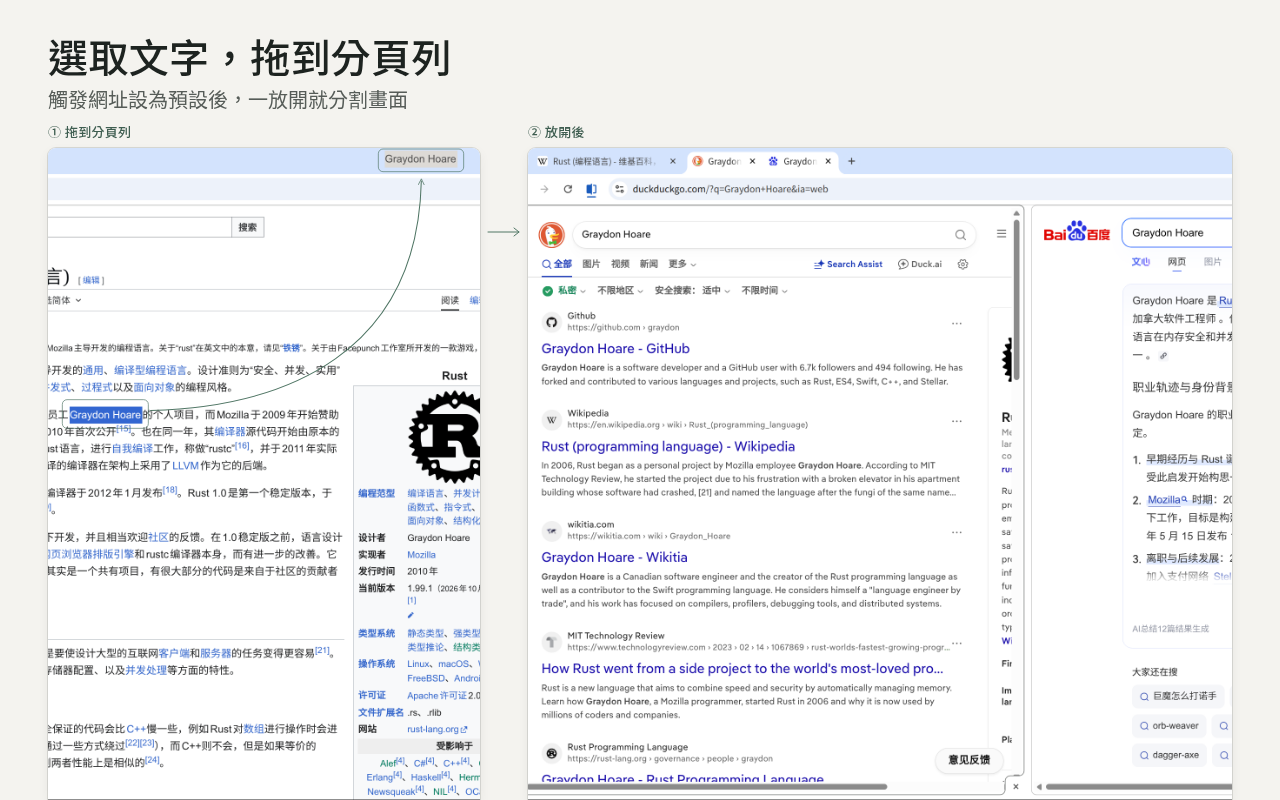
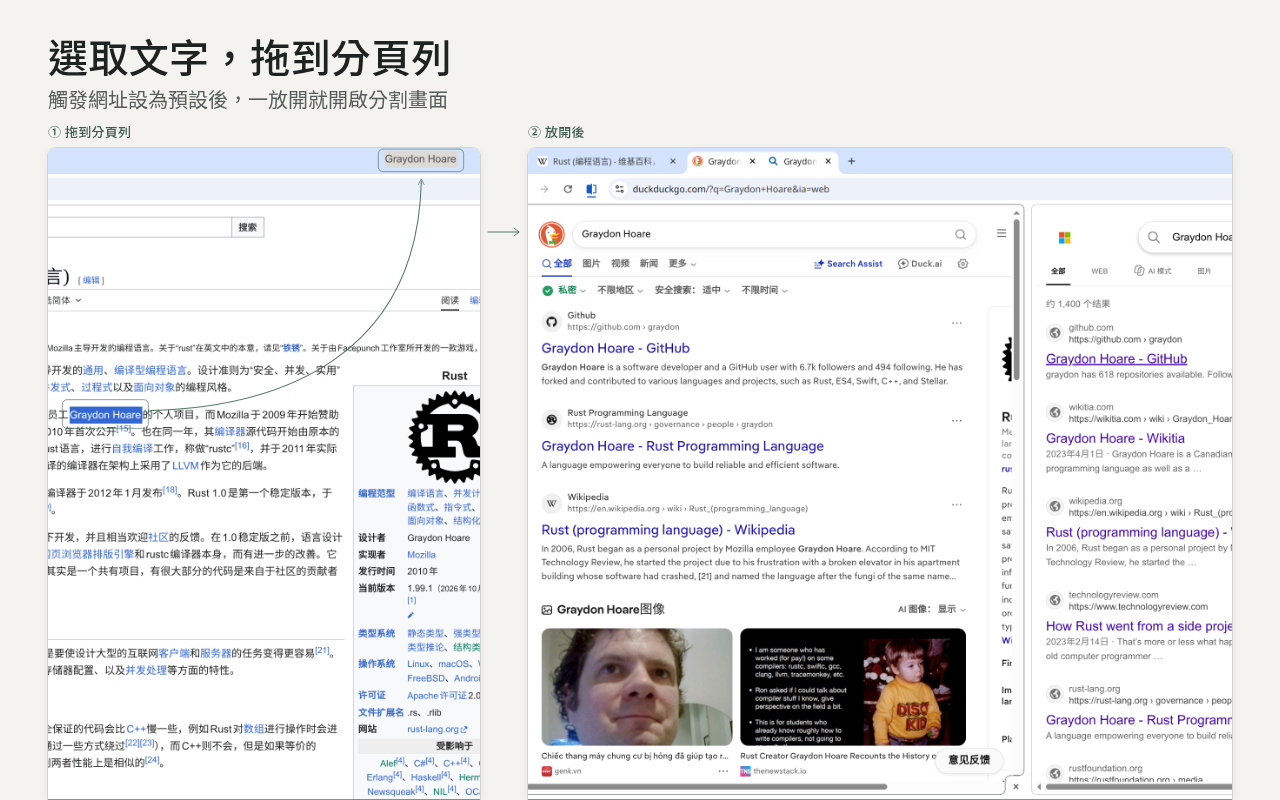
docs(assets): reshoot the Chinese screenshots without Baidu
The omnibox and drag result screenshots used by the zh_CN, zh_TW and
es store and README images showed a DuckDuckGo | Baidu split. Reshoot
them as DuckDuckGo | Bing with a Chinese Chrome UI in a private Xvfb
and a throw-away profile, drop the unused Baidu weather screenshot,
point the templates and flag notes at bing, and re-render the three
locales. English outputs are unchanged.

Claude-Session: https://claude.ai/code/session_01QAFczmx2FRoPgu46A1z6D9

diff --git a/assets/templates/store-2-omnibox.html b/assets/templates/store-2-omnibox.html
@@ -6,7 +6,7 @@
 <script src="fonts.js"></script>
 <style>
   /* 两块同缩放（0.435）、同上缘，高 652 正好是原图整窗高 1500：窗口下沿就落在画布底边，不切到任何一行字。
-     左 432 宽 = 输入时的地址栏下拉；右 704 宽 = 回车后的分屏（DuckDuckGo 整个窗格 + 百度的 logo 和搜索框）。中间 48 的间距里一条 1px 箭头 */
+     左 432 宽 = 输入时的地址栏下拉；右 704 宽 = 回车后的分屏（DuckDuckGo 整个窗格 + Bing 的 logo 和搜索框）。中间 48 的间距里一条 1px 箭头 */
   .a { left: 48px; width: 432px; } .b { left: 528px; width: 704px; }
   .cap.ca { left: 48px; } .cap.cb { left: 528px; }
   .link { left: 480px; top: 226px; }
@@ -17,11 +17,11 @@
     <p data-t="shot2.sub"></p>
   </header>
   <div class="cap ca" data-t="shot2.cap1"></div><div class="cap cb" data-t="shot2.cap2"></div>
-  <!-- 真实截图：在地址栏输入 rust ownership，下拉建议“rust ownership - DuckDuckGo ｜ 百度 搜索”（细框；en 是“DuckDuckGo | Bing Search”，位置相同） -->
+  <!-- 真实截图：在地址栏输入 rust ownership，下拉建议“rust ownership - DuckDuckGo ｜ Bing 搜索”（细框；en 是“DuckDuckGo | Bing Search”，位置相同） -->
   <div class="crop bleed a" data-crop="0,0,994,1500" data-h="fill"><img src="../raw/omnibox-suggest.png" data-iw="2400" alt="">
     <i class="mark" data-box="246,132,504,56"></i></div>
   <svg class="link" viewBox="0 0 48 12"><path d="M8 6H39M34 2L39 6L34 10" stroke="#507665" stroke-width="1" fill="none" stroke-linecap="round" stroke-linejoin="round"/></svg>
-  <!-- 真实截图：回车后的分屏，左 DuckDuckGo、右百度（en 是 Bing），查询词 rust ownership -->
+  <!-- 真实截图：回车后的分屏，左 DuckDuckGo、右 Bing，查询词 rust ownership -->
   <div class="crop bleed b" data-crop="50,0,1620,1500" data-h="fill"><img src="../raw/omnibox-result-split.png" data-iw="2400" alt=""></div>
   <script src="crop.js"></script>
 </body></html>

diff --git a/assets/templates/readme-how-it-works.html b/assets/templates/readme-how-it-works.html
@@ -49,7 +49,7 @@
     <div class="fig url">
       <code>https://duckduckgo.com<br>/?q=rust+ownership</code>
       <span class="k" data-t="how.urlNote" data-lines="1"></span>
-      <code><b data-text-en="&amp;_ss=ddg,bing">&amp;_ss=ddg,baidu</b></code>
+      <code><b>&amp;_ss=ddg,bing</b></code>
       <span class="k s" data-t="how.flagNote" data-lines="1"></span>
     </div>
     <p class="note" data-t="how.note2"></p>
@@ -58,8 +58,8 @@
   <div class="col c3">
     <h2><b>3</b><span data-t="how.step3"></span></h2>
     <div class="fig">
-      <!-- 真实截图：回车后的分屏，左 DuckDuckGo、右百度（en 是 Bing，英文截图的空白在 1094–1110，切在 1102）。只取两个引擎的页头：DuckDuckGo 窗格整宽 + 右侧 logo 和搜索框开头 -->
-      <div class="crop" data-crop="0,0,1640,1127" data-crop-en="0,0,1640,1102"><img src="../raw/omnibox-result-split.png" data-iw="2400" alt=""></div>
+      <!-- 真实截图：回车后的分屏，左 DuckDuckGo、右 Bing（中文截图的空白在 1100–1120，英文截图在 1094–1110，都切在 1102）。只取两个引擎的页头：DuckDuckGo 窗格整宽 + 右侧 logo 和搜索框开头 -->
+      <div class="crop" data-crop="0,0,1640,1102"><img src="../raw/omnibox-result-split.png" data-iw="2400" alt=""></div>
     </div>
     <p class="note" data-t="how.note3"></p>
   </div>

diff --git a/assets/templates/store-3-drag.html b/assets/templates/store-3-drag.html
@@ -31,7 +31,7 @@
     </svg>
   </div>
   <svg class="link" viewBox="0 0 48 12"><path d="M8 6H39M34 2L39 6L34 10" stroke="#507665" stroke-width="1" fill="none" stroke-linecap="round" stroke-linejoin="round"/></svg>
-  <!-- 真实截图：松手后的分屏，左 DuckDuckGo、右百度（en 是 Bing），查询词 Graydon Hoare -->
+  <!-- 真实截图：松手后的分屏，左 DuckDuckGo、右 Bing，查询词 Graydon Hoare -->
   <div class="crop bleed b" data-crop="50,0,1620,1500" data-h="fill"><img src="../raw/drag-result-split.png" data-iw="2400" alt=""></div>
   <script src="crop.js"></script>
 </body></html>

diff --git a/assets/raw/captions.md b/assets/raw/captions.md
@@ -9,13 +9,13 @@
 - 扩展从本仓库 `src/` 用 CDP `Extensions.loadUnpacked` 加载，版本 0.1.0。
 - 用 `import -window root` 截取整个屏幕，包括标签栏和分屏。Xvfb 截图里没有鼠标指针。
 - 除 `options-fullpage.png` 外，其余都是 2400×1500 的整窗截图。
+- `drag-result-split.png`、`omnibox-suggest.png`、`omnibox-result-split.png` 三张是 2026-10-28 用 Chrome 156 重拍的，环境见下文“中文结果截图的重拍”。
 
 ## 设置页的状态
 
 - 默认组合：DuckDuckGo ｜ Bing。
 - 引擎排序：DuckDuckGo、Bing、Google、Kagi、Perplexity。
 - 授权：只授权了 `https://duckduckgo.com/*` 和 `https://www.bing.com/*`，是在设置页点“点此授权”后，在 Chrome 授权框里点“允许”授予的。
-- 拍完设置页之后，又添加了一个自定义引擎“百度”（id `baidu`，`https://www.baidu.com/s?wd=%s`），百度没有授权。`options-*.png` 是添加百度之前拍的，所以里面没有百度。
 
 ## 截图清单
 
@@ -26,11 +26,10 @@
 | `options-fullpage.png` | 2378×2876 | 设置页整页，用 CDP `Page.captureScreenshot` 拍，只有页面内容、不含浏览器界面。状态和上面两张相同。 |
 | `permission-prompt.png` | 2400×1500 | 设置页点“点此授权 DuckDuckGo（必需）和 Bing（建议）”后弹出的 Chrome 授权框，内容是“读取和更改您在 duckduckgo.com 和 www.bing.com 上的数据”。这时默认组合已经改成 DuckDuckGo ｜ Bing，但还没授权，所以页面上有黄色提示。 |
 | `split-ddg-bing-rust.png` | 2400×1500 | 原生分屏：左边是 DuckDuckGo，右边是 Bing，查询词“rust programming”。新开一个标签访问触发网址 `https://duckduckgo.com/?q=rust+programming&_ss=ddg,bing`，由扩展的 DNR 规则和 go.html 建成分屏，和真实使用的路径相同。页面缩放 100%。两个网页在约 800 CSS 像素宽的窗格里都有横向滚动条，这是两个网站本身的问题。 |
-| `split-ddg-baidu-weather.png` | 2400×1500 | 原生分屏：左边是 DuckDuckGo，右边是百度（自定义引擎），查询词“北京 天气”。在已有的扩展分屏左侧访问触发网址 `…&_ss=ddg,baidu`，扩展在原分屏里直接更新两侧。 |
 | `drag-to-tabstrip.png` | 2400×1500 | 拖拽过程中：在中文维基百科“Rust (编程语言)”页面选中正文里的“Graydon Hoare”，用 xdotool 真实按下鼠标，把选中的文字拖到标签栏空白处，在还没松手时截图。可以看到标签栏上方的拖拽影像“Graydon Hoare”；第一个标签右下方还有一个黑底白色“↑”方块，应该是 Chrome 的标签插入位置箭头，Xvfb 没有合成器，它的透明背景变成了黑色（合成时已盖掉，见“修补”）。拍之前用页面自带的关闭按钮关掉了维基百科的活动横幅。 |
-| `drag-result-split.png` | 2400×1500 | 上一张松手之后的结果：Chrome 用默认搜索引擎打开新标签，扩展把它变成分屏，左边 DuckDuckGo、右边百度，查询词“Graydon Hoare”。 |
-| `omnibox-suggest.png` | 2400×1500 | 在分屏左侧的地址栏输入“rust ownership”，下拉建议显示“rust ownership - DuckDuckGo ｜ 百度 搜索”。这是 Chrome 用默认搜索引擎（触发网址做成的网站搜索）给出的建议。 |
-| `omnibox-result-split.png` | 2400×1500 | 上一张按回车后的结果：扩展在原分屏里更新两侧，左边 DuckDuckGo、右边百度，查询词“rust ownership”。 |
+| `drag-result-split.png` | 2400×1500 | 拖拽松手之后的结果（2026-10-28 重拍，拖拽过程同上一张）：Chrome 用默认搜索引擎打开新标签，扩展把它变成分屏，左边 DuckDuckGo、右边 Bing，查询词“Graydon Hoare”。标签栏里是维基百科和分屏的两个标签。 |
+| `omnibox-suggest.png` | 2400×1500 | 在上一张分屏左侧的地址栏输入“rust ownership”，下拉建议显示“rust ownership - DuckDuckGo ｜ Bing 搜索”。这是 Chrome 用默认搜索引擎（触发网址做成的网站搜索）给出的建议（2026-10-28 重拍）。 |
+| `omnibox-result-split.png` | 2400×1500 | 上一张按回车后的结果：扩展在原分屏里更新两侧，左边 DuckDuckGo、右边 Bing，查询词“rust ownership”（2026-10-28 重拍）。 |
 
 ## 修补
 
@@ -51,13 +50,28 @@ convert drag-to-tabstrip.png \
 
 ## 拍摄时的默认搜索引擎
 
-拖拽和地址栏两组截图需要把触发网址设成 Chrome 默认搜索引擎。做法是用 e2e 脚本的 `settings-se.mjs` 操作 `chrome://settings/searchEngines`，添加网站搜索“DuckDuckGo ｜ 百度”，网址 `https://duckduckgo.com/?q=%s&_ss=ddg,baidu`，快捷字词是脚本专用的 `sse2e`，再设为默认。这和设置页引导用户手动做的步骤效果相同，只是快捷字词不一样；快捷字词不出现在任何截图里。
+拖拽和地址栏两组截图需要把触发网址设成 Chrome 默认搜索引擎。做法是用 e2e 脚本的 `settings-se.mjs` 操作 `chrome://settings/searchEngines`，添加网站搜索“DuckDuckGo ｜ Bing”，网址 `https://duckduckgo.com/?q=%s&_ss=ddg,bing`，快捷字词是脚本专用的 `sse2e`，再设为默认（2026-10-24 的 `drag-to-tabstrip.png` 拍摄时这条网站搜索的右侧是当时的自定义引擎，拖拽中的画面里看不到它）。这和设置页引导用户手动做的步骤效果相同，只是快捷字词不一样；快捷字词不出现在任何截图里。
 
 ## 已知限制（以后补拍时注意）
 
-- 这台机器上 Bing 对中文查询会弹出人机验证（“最后一步 / 请验证您是真人”），所以中文场景的右侧换成了百度。补拍时，中文查询不要用 Bing 作右侧。
-- 截图里引擎页面的内容（DuckDuckGo 的 Search Assist、百度的 AI 摘要、“大家还在搜”等）都是网站当时实际返回的结果，没有改过。
+- 2026-10-24 这台机器上 Bing 对中文查询弹过人机验证（“最后一步 / 请验证您是真人”）。2026-10-28 重拍用的是英文查询词“Graydon Hoare”“rust ownership”，Bing 没有弹。补拍时尽量用英文查询词；Bing 弹验证时改用 `en/` 的同名截图，并在这里写明。
+- 截图里引擎页面的内容（DuckDuckGo 的 Search Assist、Bing 的结果和结果数、第一条结果标题的下划线等）都是网站当时实际返回的结果，没有改过。
 - 横向滚动条是 Linux 版 Chrome 的普通滚动条。Windows 上的效果以实拍为准。
+
+## 中文结果截图的重拍（2026-10-28，v0.7 去掉百度）
+
+v0.7 起百度不再出现在任何面向用户的地方（设计见 `docs/superpowers/specs/2026-10-28-v0.7-design.md` A2）。画面里有百度的三张 `drag-result-split.png`、`omnibox-suggest.png`、`omnibox-result-split.png` 换成 DuckDuckGo ｜ Bing 重拍，原来没被任何模板用到的 `split-ddg-baidu-weather.png` 删掉。`drag-to-tabstrip.png` 画面里没有百度，没有重拍。
+
+- Google Chrome 156.0.8078.47（Linux），界面语言中文：启动参数加 `--lang=zh-CN`、环境变量 `LANGUAGE=zh_CN:zh`，另加 `--disable-features=LcdTextAntialiasing,Translate`（包装脚本自带的 `LcdTextAntialiasing` 一起写上，同名开关只认最后一个），并往临时配置的 `Default/Preferences` 写 `translate.enabled: false`。私有 Xvfb（:90，2400×1500），`/opt/google/chrome/google-chrome` 固定缩放 1.5，窗口经 CDP 设成 1600×1000 CSS 像素铺满屏幕，`import -window root` 截整屏，没有鼠标指针。
+- 全新的一次性配置（`--disable-sync`，没有登录 Chrome 账号和任何网站），拍完删除；没有用 e2e 测试配置。启动、字体配置、Xvfb 都经 `scripts/e2e` 的 `browser.mjs`（`launch()`）、`display.mjs`。Accept-Language 是全新配置按 `--lang` 给的中文，DuckDuckGo 和 Bing（`www.bing.com`）都返回中文界面，没有加 `kl`、`setlang` 之类的参数。
+- 扩展从本仓库 `src/` 用 CDP `Extensions.loadUnpacked` 加载，版本 0.6.1（main 上 ecc7961 之后的工作区）。`storage.sync` 写成默认组合 DuckDuckGo ｜ Bing、引擎排序 DuckDuckGo、Bing、Google、Kagi、Perplexity；只授权 `https://duckduckgo.com/*` 和 `https://www.bing.com/*`，在设置页发起申请，Chrome 授权框里用 xdotool 按 Tab、回车点“允许”。
+- 网站搜索：`settings-se.mjs` 添加“DuckDuckGo ｜ Bing”（设置页建议的名称）、网址 `https://duckduckgo.com/?q=%s&_ss=ddg,bing`、快捷字词 `sse2e`，设为默认；之后关掉设置页和 `chrome://settings` 窗口，标签栏只剩一个标签。
+- 拍摄过程：这个标签打开中文维基百科“Rust (编程语言)”，用页面自带的关闭按钮关掉活动横幅，在正文“…员工Graydon Hoare的个人项目…”里选中“Graydon Hoare”（不是链接），用 xdotool 真实按下鼠标拖到标签栏空白处（落点 1509,30，与 `drag-to-tabstrip.png` 相同）松手，等两侧结果都出来后截 `drag-result-split.png`；指针挪到标签栏右侧空白处（1900,30），按 Ctrl+L 在分屏左侧的地址栏输入“rust ownership”、按 Delete 去掉行内补全，截 `omnibox-suggest.png`；回车后扩展在原分屏里更新两侧，等两侧结果都出来后截 `omnibox-result-split.png`。
+- Bing 两次都直接出结果，没有人机验证，所以没用 `en/` 的截图顶替。
+- 与 `drag-to-tabstrip.png` 不同之处：那张是 2026-10-24 用 Chrome 155 拍的（拖拽中的画面），这三张是 Chrome 156，浏览器界面的细节（标签图标、配色）略有差别，只用在不上传的 zh_CN、zh_TW、es 套图里。
+- 模板随之改的：`readme-how-it-works.html` 第 3 栏的裁切高度原来是 1127（百度截图的空白行），新截图在 x 0–1640 范围内的空白行是 1100–1120，改成与英文截图共用的 1102；`store-2-omnibox.html` 的下拉框细框（246,132,504,56）和两张模板的结果分屏裁切不用改。`node scripts/store/render-assets.mjs --locale zh_CN`、`zh_TW`、`es` 重新渲染，渲染器没有报溢出或超行；`--locale en` 重新渲染后英文图逐字节不变。
+
+三张都逐一看过：没有百度，右侧是 Bing；地址栏下拉建议是“rust ownership - DuckDuckGo ｜ Bing 搜索”；没有账号头像（右上角是未登录的默认图标）、令牌、IP 和其他浏览历史。
 
 ## 英文截图（en/）
 
@@ -68,7 +82,7 @@ convert drag-to-tabstrip.png \
 - Google Chrome 155.0.8059.84（Linux），界面语言英文：启动参数加 `--lang=en-US`、环境变量 `LANGUAGE=en_US:en`。独立 Xvfb 屏幕 2400×1500、缩放 1.5，窗口 1600×1000 CSS 像素，`import -window root` 截整屏，没有鼠标指针。
 - 用 e2e 的隔离测试配置 `~/.cache/split-search-e2e/profile`（`--disable-sync`，不登录 Chrome 账号），全程经 `scripts/e2e` 的模块：`display.mjs` 起私有 Xvfb，`browser.mjs` 启动，`ext-source.mjs` 改装本检出（feat/v0.2）的 `src/`，`settings-se.mjs` 加网站搜索并设默认，`xinput.mjs` 真实拖拽和键盘输入，`teardown.mjs` 的恢复步骤收尾：`storage.sync` 读回与快照一致，默认搜索引擎改回运行前的那个、删掉 `sse2e` 条目，扩展改回运行前装自的目录。测试配置的 Accept-Language 是 `en-US,en,zh-CN`，DuckDuckGo 和 Bing 都返回英文页面，没有加 `kl`、`setlang` 之类的参数。
 - 扩展版本 0.2（带 c6 正式图标），`storage.sync` 临时写成 `uiLocale: "en"`、默认组合 DuckDuckGo ｜ Bing、引擎排序 DuckDuckGo、Bing、Google、Kagi、Perplexity。测试配置里五个预置引擎都已授权，所以设置页里全部显示“Access granted”。
-- 网站搜索：名称 `DuckDuckGo | Bing`（设置页建议的名称）、网址 `https://duckduckgo.com/?q=%s&_ss=ddg,bing`、快捷字词 `sse2e`，设为默认。右侧全部是预置的 Bing，没有百度。
+- 网站搜索：名称 `DuckDuckGo | Bing`（设置页建议的名称）、网址 `https://duckduckgo.com/?q=%s&_ss=ddg,bing`、快捷字词 `sse2e`，设为默认。右侧全部是预置的 Bing。
 
 | 文件 | 内容 |
 |---|---|

diff --git a/docs/store/assets-spec.md b/docs/store/assets-spec.md
@@ -53,7 +53,7 @@ node scripts/store/render-assets.mjs --icon assets/icon-proposals/<方案目录>
 | 文件 | 尺寸 | 模板 | 内容 |
 |---|---|---|---|
 | `screenshot-1.png` | 1280×800 | `store-1-split` | “一次搜索，两个引擎左右对比”：DuckDuckGo ｜ Bing（预置组合）拆分视图整窗 |
-| `screenshot-2.png` | 1280×800 | `store-2-omnibox` | “地址栏照常搜索，回车就打开拆分视图”：上方是输入“rust ownership”时的下拉建议（只取下拉框，框出“DuckDuckGo ｜ 百度 搜索”），下方是回车后的拆分视图整窗（同一查询词）；右下角注明“百度”为自行添加的引擎 |
+| `screenshot-2.png` | 1280×800 | `store-2-omnibox` | “地址栏照常搜索，回车就打开拆分视图”：上方是输入“rust ownership”时的下拉建议（只取下拉框，框出“DuckDuckGo ｜ Bing 搜索”），下方是回车后的拆分视图整窗（同一查询词） |
 | `screenshot-3.png` | 1280×800 | `store-3-drag` | “选中文字，拖到标签栏”（副标题写明前提“触发网址设为默认后”）：拖拽中的真实画面加箭头，右下角小图是松手后的拆分视图；Xvfb 下黑底的插入箭头用修补图盖掉（见 `assets/raw/captions.md`“修补”） |
 | `screenshot-4.png` | 1280×800 | `store-4-engines` | “引擎自己选，组合随意配”：设置页的引擎列表，叠一张放大到约 0.67 的“添加到 Chrome”默认组合块（触发网址 + 复制） |
 | `screenshot-5.png` | 1280×800 | `store-5-fallback` | “其他设备与无痕窗口：自动退化为普通搜索”：同一个触发网址，装了扩展是拆分视图，没生效时是普通 DuckDuckGo 结果页（左图只取两个窗格上半部分，缩放约 0.31；右图只取网页区域，约 0.51） |
@@ -93,9 +93,10 @@ node scripts/store/render-assets.mjs --icon assets/icon-proposals/<方案目录>
 
   四种语言并排对照：`assets/proposals/locales-compare.png`（源文件 `locales-compare.html`，无头 Chrome 宽 1800 整页截图；图片改了要重截）。共用模板与 `base.css` 没有为译文改动，zh_CN 重渲后与提交的图逐字节一致。
 - **宣传截图暂时只做英文（2026-10-24 用户决定）**：取代原来“4 种语言都要重拍真实截图”的计划。
-  - `assets/raw/en/` 是英文的真实截图（拍法见 `assets/raw/captions.md`“英文截图”）：英文 Chrome 界面（`--lang=en-US`）、扩展界面语言 `en`、c6 正式图标、英文结果页，右侧全部是预置的 Bing，没有百度。`render-assets.mjs` 渲染某种语言时，`assets/raw/<语言>/` 里有同名截图就用它，没有就用 `assets/raw/` 根下共用的；画面位置不同的地方，模板用 `data-crop-en`、`data-box-en`、`data-d-en`、`data-text-en` 写英文截图的坐标和网址（`crop.js`）。目前只有 `en` 有自己的截图。
+  - `assets/raw/en/` 是英文的真实截图（拍法见 `assets/raw/captions.md`“英文截图”）：英文 Chrome 界面（`--lang=en-US`）、扩展界面语言 `en`、c6 正式图标、英文结果页，右侧全部是预置的 Bing。`render-assets.mjs` 渲染某种语言时，`assets/raw/<语言>/` 里有同名截图就用它，没有就用 `assets/raw/` 根下共用的；画面位置不同的地方，模板用 `data-crop-en`、`data-box-en`、`data-d-en`、`data-text-en` 写英文截图的坐标和网址（`crop.js`）。目前只有 `en` 有自己的截图。
   - 上传：截图、小宣传图、顶部宣传图都用 `assets/store/en/`。CWS 对所有语言显示同一组截图，除非为某种语言另行上传本地化截图；这次不上传其他语言的截图。
-  - 其他语言（zh_CN、zh_TW、es）的截图暂不维护：`assets/store/zh_CN|zh_TW|es/` 的画面仍是中文 Chrome、旧字母图标、右侧百度，不要上传。以后要做，再按 `en` 的办法为该语言拍 `assets/raw/<语言>/` 并补对应的 `data-*-<语言>` 坐标。
+  - 其他语言（zh_CN、zh_TW、es）的截图暂不维护：`assets/store/zh_CN|zh_TW|es/` 的画面仍是中文 Chrome 和旧字母图标，不要上传。以后要做，再按 `en` 的办法为该语言拍 `assets/raw/<语言>/` 并补对应的 `data-*-<语言>` 坐标。
+  - 2026-10-28（v0.7，百度不再出现在任何面向用户的地方）：共用中文截图里右侧是百度的三张（`omnibox-suggest.png`、`omnibox-result-split.png`、`drag-result-split.png`）已用中文 Chrome 156 换成 DuckDuckGo ｜ Bing 重拍（拍法见 `assets/raw/captions.md`“中文结果截图的重拍”），zh_CN、zh_TW、es 的商店图和 README 图都已重渲，画面里不再有百度。只维护 `en` 商店截图的政策不变：这三种语言的图仍不上传。重渲时 zh_TW 和 es 另有几张与模板、截图无关的图也变了（zh_TW 的截图 1、4、5 与两张宣传图，es 的截图 1），是之前的文案或模板改动（如 df4769c 改了 `i18n/zh_TW.json`、`es.json`）之后没有重渲，这次一起更新。
 - **宣传图不能按语言区分**：CWS 的小宣传图（440×280）和顶部宣传图（1400×560）全站只有一张，但 d1 的这两张都带一句文案（`small.tag`、`marquee.*`），渲染会每种语言各出一张。i18n 方案第 11 节写的是“宣传图不分语言，图上尽量不放文字，必须放就只放英文产品名”。按上一条的决定上传 `en` 版本（与 `default_locale` 一致）；要完全不带文案，还得另做一版。
 
 ## Review fixes（2026-10-24）
@@ -110,7 +111,7 @@ node scripts/store/render-assets.mjs --icon assets/icon-proposals/<方案目录>
 4. **v3 / v5 在 16px 下撞车**：v3 的 16px 每格加 1px 白色横条（搜索框）；v5 的 16px 改为每块 6×10、错开 4px、对角圆角 5。对比图每行加了一条“16px 下长什么样”的说明，并注明宣传图里的图标是占位。
 5. **隐私政策概要**与 Web history 披露矛盾：中英概要改为“只在你的设备上处理完成功能所需的数据，不发送给开发者或第三方，也不出售”。（这一条对应的“勾选 Web history”已被 2026-10-24 的决定取代：Web history 不勾，见 `privacy.md` (d)。）
 6. **DNR 域名范围**：权限理由和代码事实速查改为“可作左侧的引擎的 hostname（及其子域名）”。
-7. **百度不在预置引擎里**：`screenshot-1` 和 marquee 换成预置组合 DuckDuckGo ｜ Bing；`screenshot-2`、`screenshot-3` 仍用百度（中文场景 Bing 会弹人机验证），右下角加注“示例右侧‘百度’为自行添加的引擎”，中英详细说明的引擎条目也加了一句。
+7. **百度不在预置引擎里**：`screenshot-1` 和 marquee 换成预置组合 DuckDuckGo ｜ Bing；`screenshot-2`、`screenshot-3` 当时仍用百度（中文场景 Bing 会弹人机验证），右下角加注“示例右侧‘百度’为自行添加的引擎”，中英详细说明的引擎条目也加了一句。2026-10-28（v0.7）起百度不再出现：这两张图的原始截图换成 DuckDuckGo ｜ Bing 重拍（英文查询词，Bing 没有弹人机验证），注记随之去掉（d1 模板里已经没有它），见第 4 节。
 8. **manifest 缺 icons**：在 `listing.zh-CN.md` 开头新增“提交前必做”清单（manifest 图标、选定图标后重渲、隐私政策托管）。manifest 本身未改，需要你确认。
 9. **v6 放在白色底板上成“板中板”**：`render-assets.mjs` 新增 `--no-tile`，去掉白底板并让图标自带的底板铺满；上文“任何一个方案都能用”的说法已更正。
 10. **橙色对比度**：图标提案的橙色从 `#F26B3A` 加深到 `#E0561F`（对 `#f1f3f4` 约 3.4:1，对 `#202124` 约 4.2:1），v3/v4/v5 的 notes 都写明了；v5 的 128 母版仍用橙色渐变（大尺寸不受影响）。

diff --git a/assets/templates/README.md b/assets/templates/README.md
@@ -53,19 +53,19 @@ node scripts/store/render-assets.mjs --list     # 只列模板、尺寸和输出
 
 - 商店截图（1280×800）：页头一栏，标题和副标题都左对齐 x=48，副标题在标题正下方；截图上缘统一在 y=148，左右边距 48，全部向下出血。出血的切口都落在两行字之间的空白里，或者正好是窗口下沿（截图 2、3 的四块截图高 652 恰好等于整窗高 1500 × 0.435），不切半行字。各图的切口行号写在模板注释里。
 - 截图 1：整窗，左右各裁掉 8px 窗口边，缩放 0.497，分屏中缝落在画布中线 640。
-- 截图 2、3：同一套版式。左 432 宽是操作的那一刻（地址栏下拉 / 拖拽中），右 704 宽是结果分屏（DuckDuckGo 整个窗格加百度的 logo 和搜索框），两块缩放相同（0.435），中间 48 的间距里一条 1px 箭头。截图上方的边距里用 13px 松针绿字写“① 输入 / ② 回车后”“① 拖到标签栏 / ② 松手后”，左缘对齐各自的截图，不压在截图上。截图 3 左块里另有 1px 细框（选中的文字、标签栏上的拖拽影像）和一条细拖拽路径。
+- 截图 2、3：同一套版式。左 432 宽是操作的那一刻（地址栏下拉 / 拖拽中），右 704 宽是结果分屏（DuckDuckGo 整个窗格加 Bing 的 logo 和搜索框），两块缩放相同（0.435），中间 48 的间距里一条 1px 箭头。截图上方的边距里用 13px 松针绿字写“① 输入 / ② 回车后”“① 拖到标签栏 / ② 松手后”，左缘对齐各自的截图，不压在截图上。截图 3 左块里另有 1px 细框（选中的文字、标签栏上的拖拽影像）和一条细拖拽路径。
 - 截图 4：只放设置页“搜索引擎”一张卡片，缩放 0.819，五个预置引擎都能读清；去掉了原来压在上面的“添加到 Chrome”卡片（一张图只讲一件事，触发网址留给截图 5 和原理图）。
 - 截图 5：顶部一条“同一个触发网址”，下面上下两行对照，左栏 48–280 写说明，截图从 312 起。两张截图缩放相同（0.39）：上面是分屏两个窗格的上部，下面是普通 DuckDuckGo 结果页、向下出血；下图只有上图一半宽，正好是“一个引擎”和“两个引擎”的差别。
 - 小宣传图（440×280）：像图标一样分两格，左格松针绿放图标，右格纸白放产品名和“双引擎分屏搜索”。缩到 220×140 时图标、名字和标签都能认出。
 - 顶部宣传图（1400×560）：左栏 0–480 铺松针绿，品牌、两行标题、一行说明都反白；图标放在纸白圆角底板上（图标左格也是松针绿）。右侧整窗截图 528–1352，左右窗框完整、右边距 48，下沿正好落在画布底边。
 - README 首图：页头一行，左品牌、右一句话“一次搜索，两个引擎对比”，右缘对齐窗口框；截图完整带框，切在两行之间；下方“左 DuckDuckGo / 右 Bing”分别对齐左右窗格的内容左缘。
-- README 原理图：三栏等宽 229、栏间距 72；每栏顶上一条 1px 墨线，编号是松针绿数字（这里确实是先后顺序）；栏间是一行 4 字标注（拼出网址 / 扩展接管）加 1px 箭头；每栏只有一行说明，三栏说明在同一条线上；第 3 栏只取 DuckDuckGo 窗格和百度页头；底部通栏一句降级说明。
+- README 原理图：三栏等宽 229、栏间距 72；每栏顶上一条 1px 墨线，编号是松针绿数字（这里确实是先后顺序）；栏间是一行 4 字标注（拼出网址 / 扩展接管）加 1px 箭头；每栏只有一行说明，三栏说明在同一条线上；第 3 栏只取 DuckDuckGo 窗格和 Bing 页头；底部通栏一句降级说明。
 
 ## 待定
 
 - CWS 对截图的建议是“直角、无留白（满版）”。这套方向是纸底留边的排法，截图本身没有满版；如果要严格照建议，需要另做一版让真实截图铺满 1280×800。
-- 截图 2、3 的结果分屏只显示到百度窗格的 logo 和搜索框，百度一侧的正文被块的右缘截掉；要两侧都完整，就得把整窗缩到约 0.29，字会读不清。
-- `assets/raw/` 里地址栏和拖拽两组截图的右侧是自定义引擎“百度”（这台机器上 Bing 对中文查询会弹人机验证）。英文截图 `assets/raw/en/` 已换成预置的 Bing；中文截图暂不重拍（宣传截图暂时只做英文）。
+- 截图 2、3 的结果分屏只显示到 Bing 窗格的 logo 和搜索框，Bing 一侧的正文被块的右缘截掉；要两侧都完整，就得把整窗缩到约 0.29，字会读不清。
+- `assets/raw/` 里地址栏和拖拽两组的结果截图（`omnibox-*.png`、`drag-result-split.png`）2026-10-28 已用预置的 DuckDuckGo ｜ Bing 重拍；其余中文截图没有重拍（宣传截图暂时只做英文）。
 - 共用截图里设置页标签仍是 Chrome 生成的灰底“S”图标（`assets/raw/` 拍摄时还没有正式图标）；`assets/raw/en/` 已是正式图标，见 `docs/store/assets-spec.md` 第 1、4 节。
 
 ## 多语言（i18n/）
